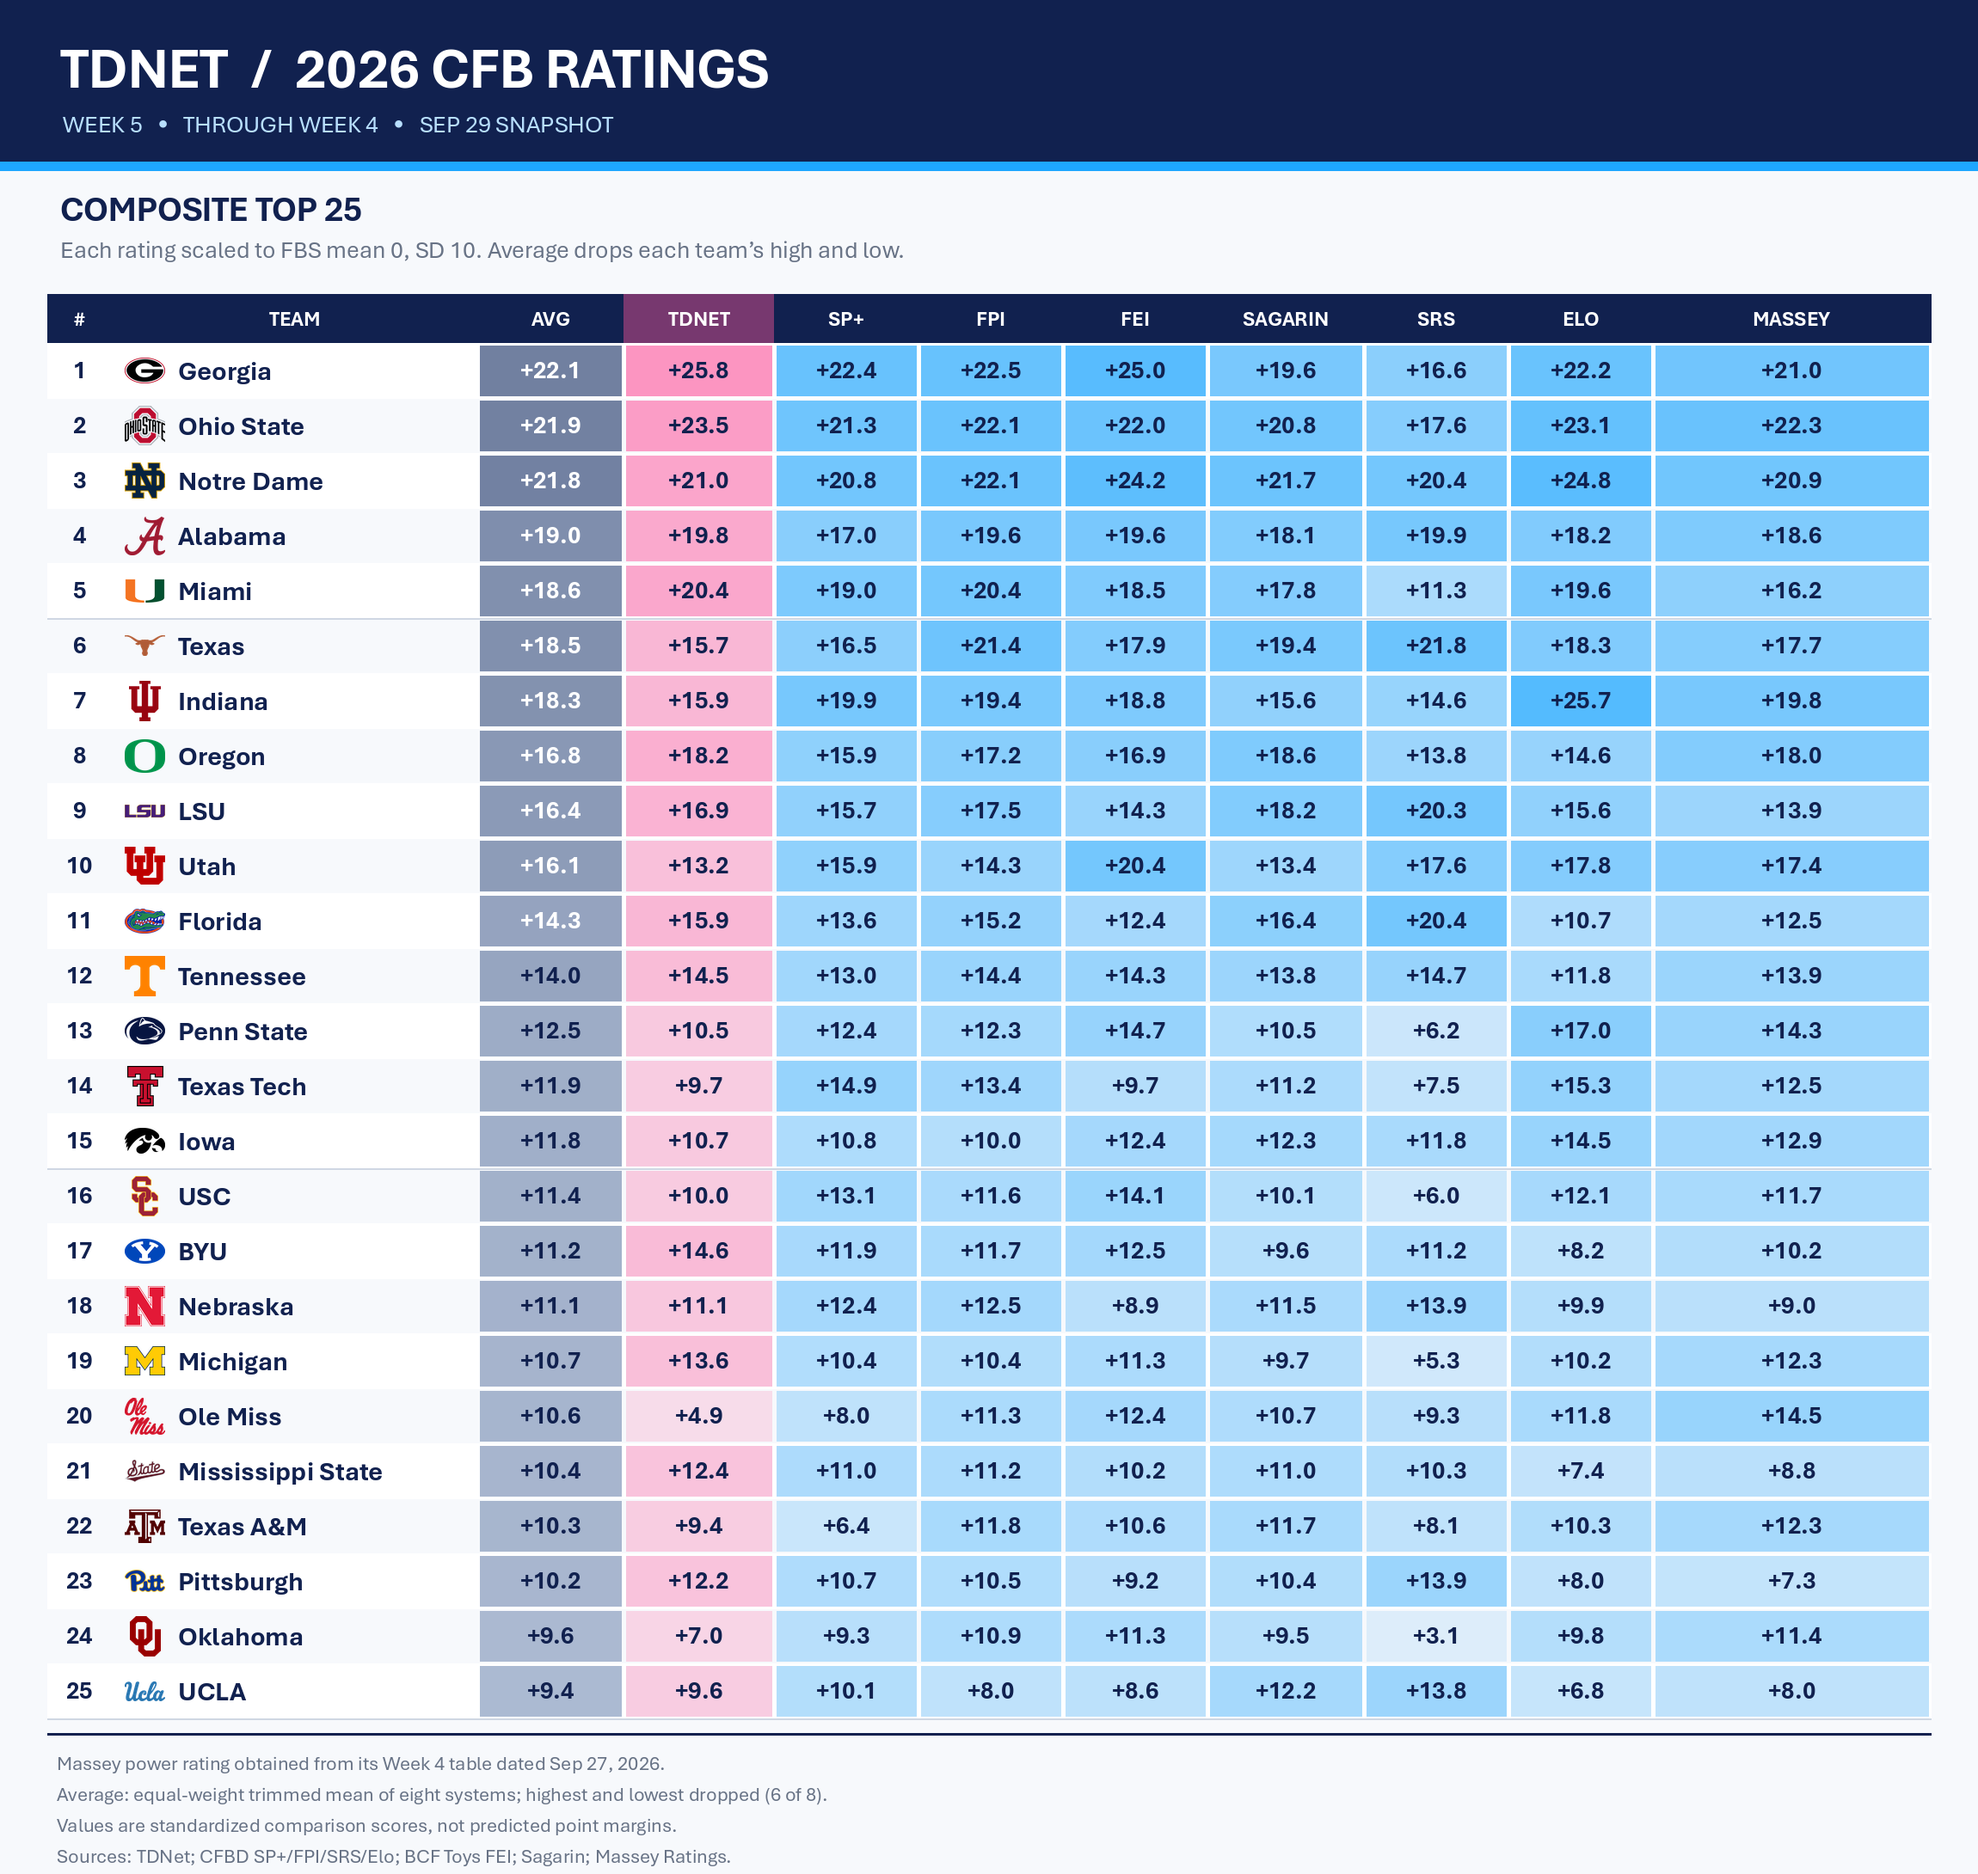
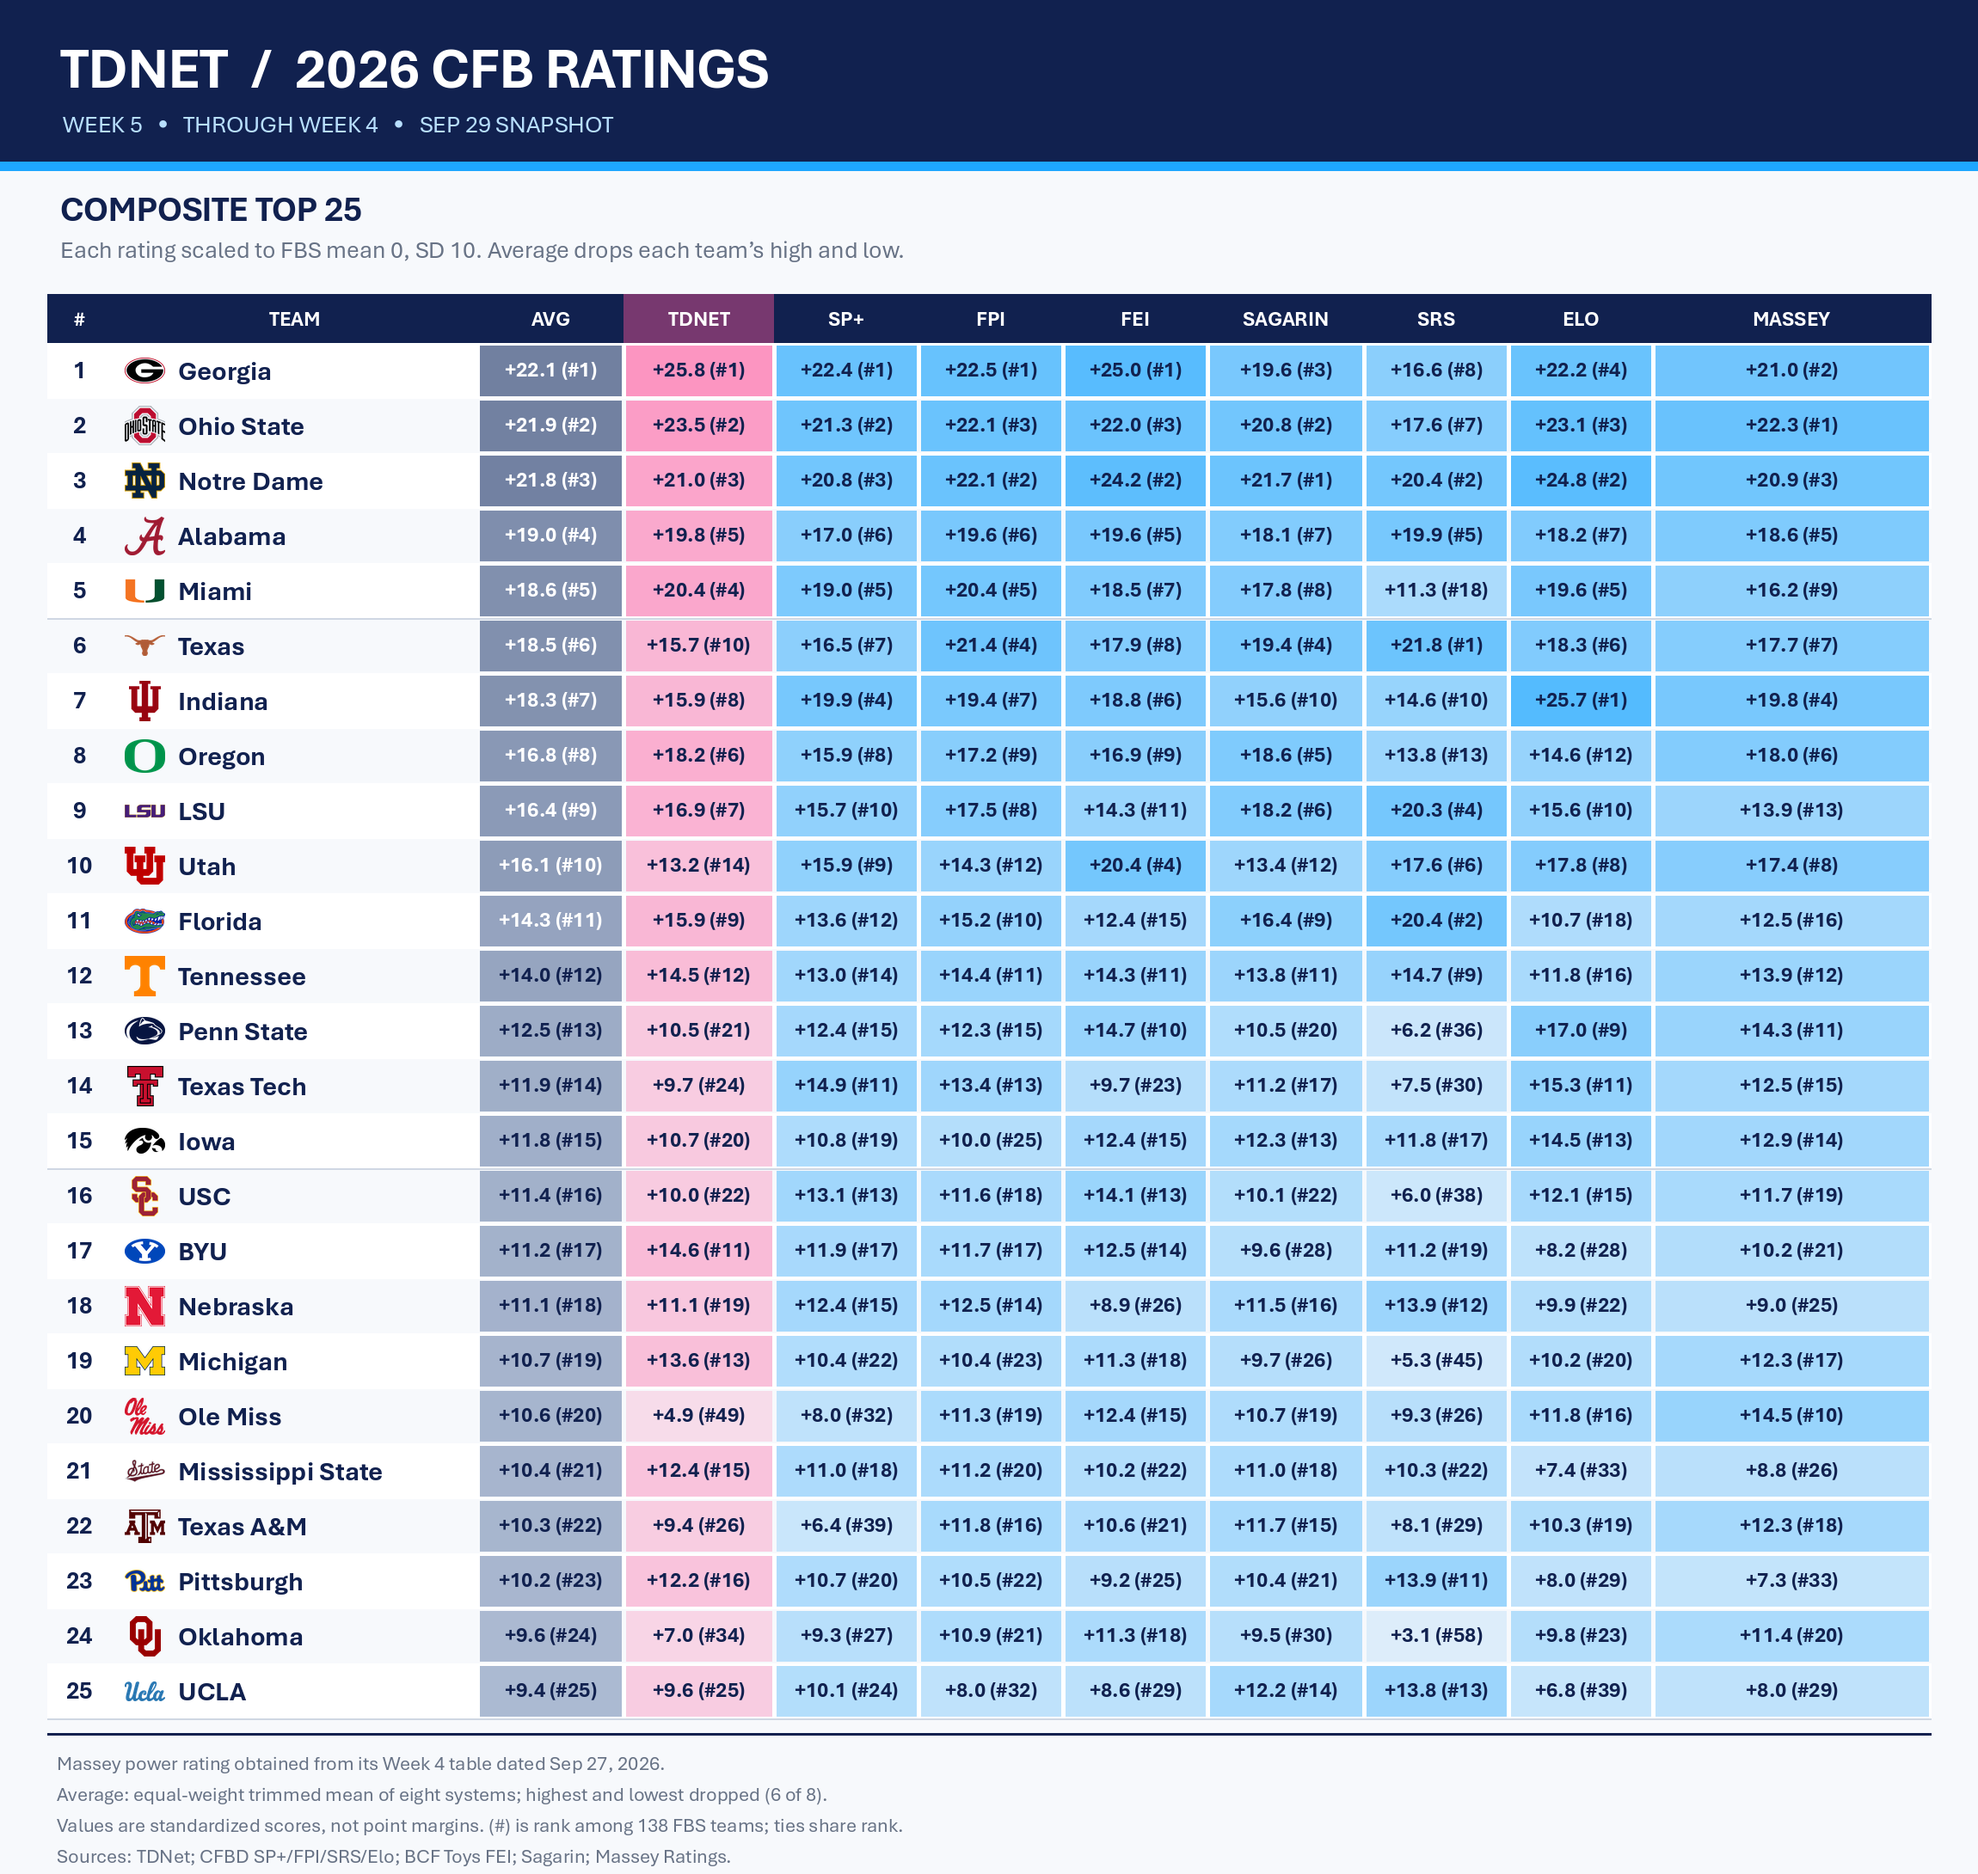
Show each system rank in Week 5 ratings graphic

diff --git a/publication/2026/week_05/pre_game/blog/summary.md b/publication/2026/week_05/pre_game/blog/summary.md
@@ -4,7 +4,7 @@
 
 ![TDNet Week 5 Top 25 composite ratings](../figures/week_05_ratings_comparison.png)
 
-The [Top 25 ratings comparison](../tables/ratings_comparison_top25.csv) includes TDNet, SP+, FPI, FEI, Sagarin, SRS, Elo, and Massey. Each system is standardized across the same 138 FBS teams to a mean of zero and standard deviation of ten. The composite equally averages the six remaining values after dropping each team's highest and lowest. These values compare relative team strength; they are not predicted point margins. [Source details and file hashes](../metadata/ratings_comparison_manifest.json) accompany the graphic.
+The [Top 25 ratings comparison](../tables/ratings_comparison_top25.csv) includes TDNet, SP+, FPI, FEI, Sagarin, SRS, Elo, and Massey. Each system is standardized across the same 138 FBS teams to a mean of zero and standard deviation of ten. The composite equally averages the six remaining values after dropping each team's highest and lowest. The number in parentheses beside each score is that column's rank among all 138 FBS teams; ties share a rank. These values compare relative team strength; they are not predicted point margins. [Source details and file hashes](../metadata/ratings_comparison_manifest.json) accompany the graphic.
 
 This report covers **56 games** using consensus predictions from **33 models**.
 
